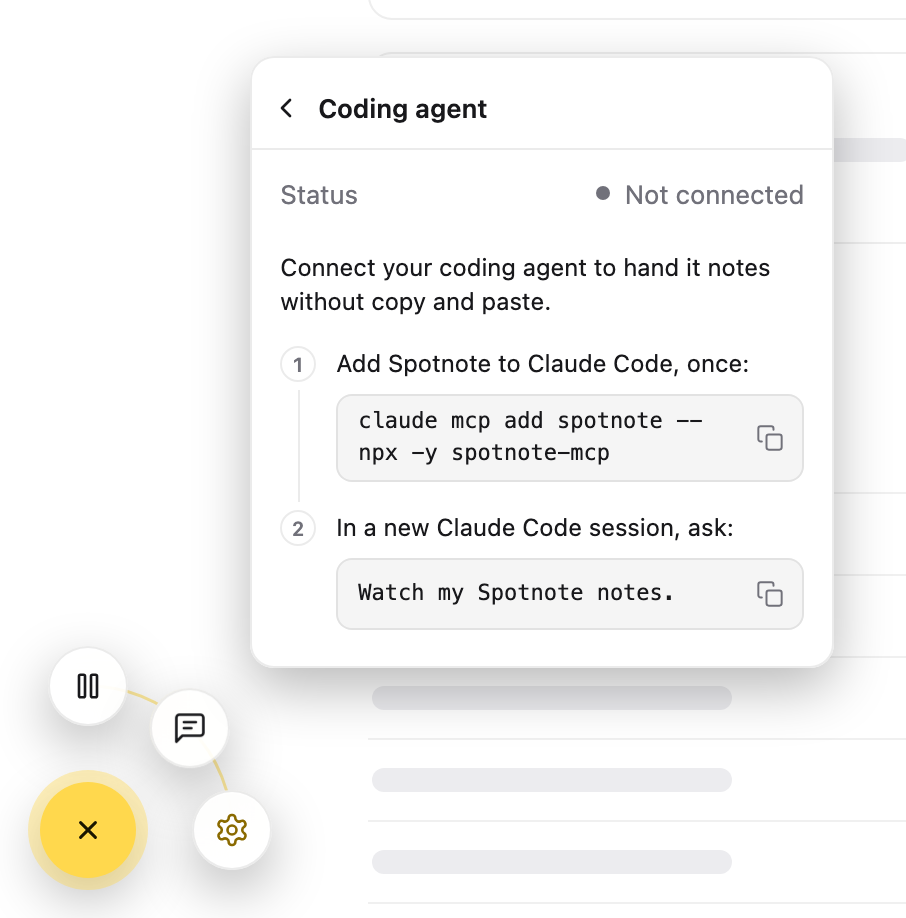
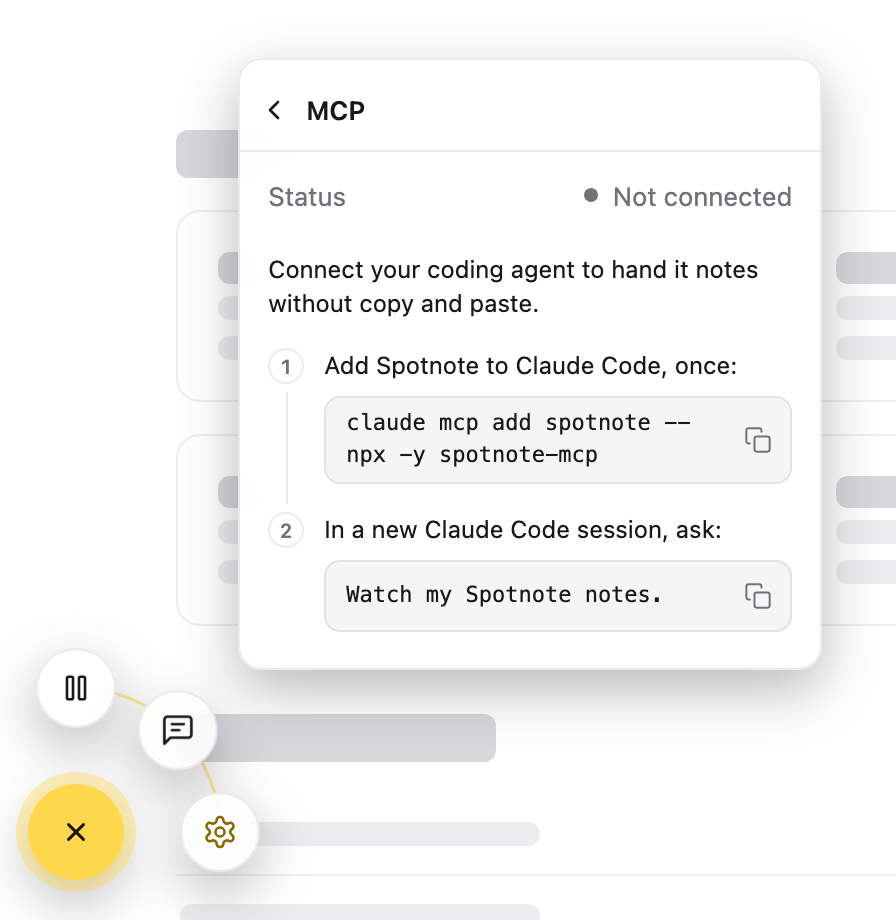
feat: Settings calls the agent row MCP, in the panel and the docs

diff --git a/package/src/client/settings-menu.js b/package/src/client/settings-menu.js
@@ -25,7 +25,7 @@ export function createSettingsMenu(pop, ctrl) {
   }
   // Settings: a header (name + theme), then rows of label · value, grouped by
   // thin rules. What a row does is behind its (?), not spelled out underneath.
-  // The coding agent row opens its own page, with how to connect.
+  // The MCP row opens its own page, with how to connect.
   let page = "main"; // or "agent"
   const THEMES = [
     ["system", "System"],
@@ -66,9 +66,9 @@ export function createSettingsMenu(pop, ctrl) {
       renderSettings();
     });
 
-    // Coding agent → its page
+    // MCP → its page
     const agent = el("button", "snl-srow snl-link", pop);
-    label(agent, "Coding agent", "Lets your agent pick up notes and reply, without copy and paste (spotnote-mcp).");
+    label(agent, "MCP", "Lets your agent pick up notes and reply, without copy and paste (spotnote-mcp).");
     mcpBox = el("span", "snl-value", agent);
     renderMcp();
     agent.addEventListener("click", () => {
@@ -135,7 +135,7 @@ export function createSettingsMenu(pop, ctrl) {
       page = "main";
       renderSettings();
     });
-    el("span", "snl-title", head).textContent = "Coding agent";
+    el("span", "snl-title", head).textContent = "MCP";
     const status = el("div", "snl-srow", pop);
     label(status, "Status");
     mcpBox = el("span", "snl-value", status);

diff --git a/package/src/client/styles.js b/package/src/client/styles.js
@@ -455,7 +455,7 @@ export const CSS = [
     "box-shadow:0 0 0 2px transparent;transition:box-shadow .12s ease,transform .12s ease}",
   ".snl-swatches button:hover{transform:scale(1.08)}",
   '.snl-swatches button[aria-checked="true"]{box-shadow:0 0 0 2px var(--sn-pop),0 0 0 4px var(--c)}',
-  // Coding agent: status with a dot; its page explains and shows the command.
+  // MCP: status with a dot; its page explains and shows the command.
   ".snl-mcp{display:inline-flex;align-items:center;gap:7px}",
   ".snl-dot{width:7px;height:7px;border-radius:50%;background:var(--sn-sub)}",
   ".snl-mcp-on .snl-dot{background:#22c55e;box-shadow:0 0 0 3px rgba(34,197,94,.18)}",

diff --git a/e2e/spotnote.spec.js b/e2e/spotnote.spec.js
@@ -345,7 +345,7 @@ test("Settings: not connected, the agent page shows how to connect", async ({ pa
   await expect(settings.locator(".snl-ver")).toHaveAttribute("href", /github\.com\/.+\/releases$/);
 
   await settings.locator(".snl-link").click();
-  await expect(settings.locator(".snl-title")).toHaveText("Coding agent");
+  await expect(settings.locator(".snl-title")).toHaveText("MCP");
   await expect(settings.locator(".snl-steps li")).toHaveCount(2);
   await settings.locator(".snl-cmd-shell").getByRole("button", { name: "Copy" }).click();
   expect(await clipboard(page)).toBe("claude mcp add spotnote -- npx -y spotnote-mcp");
